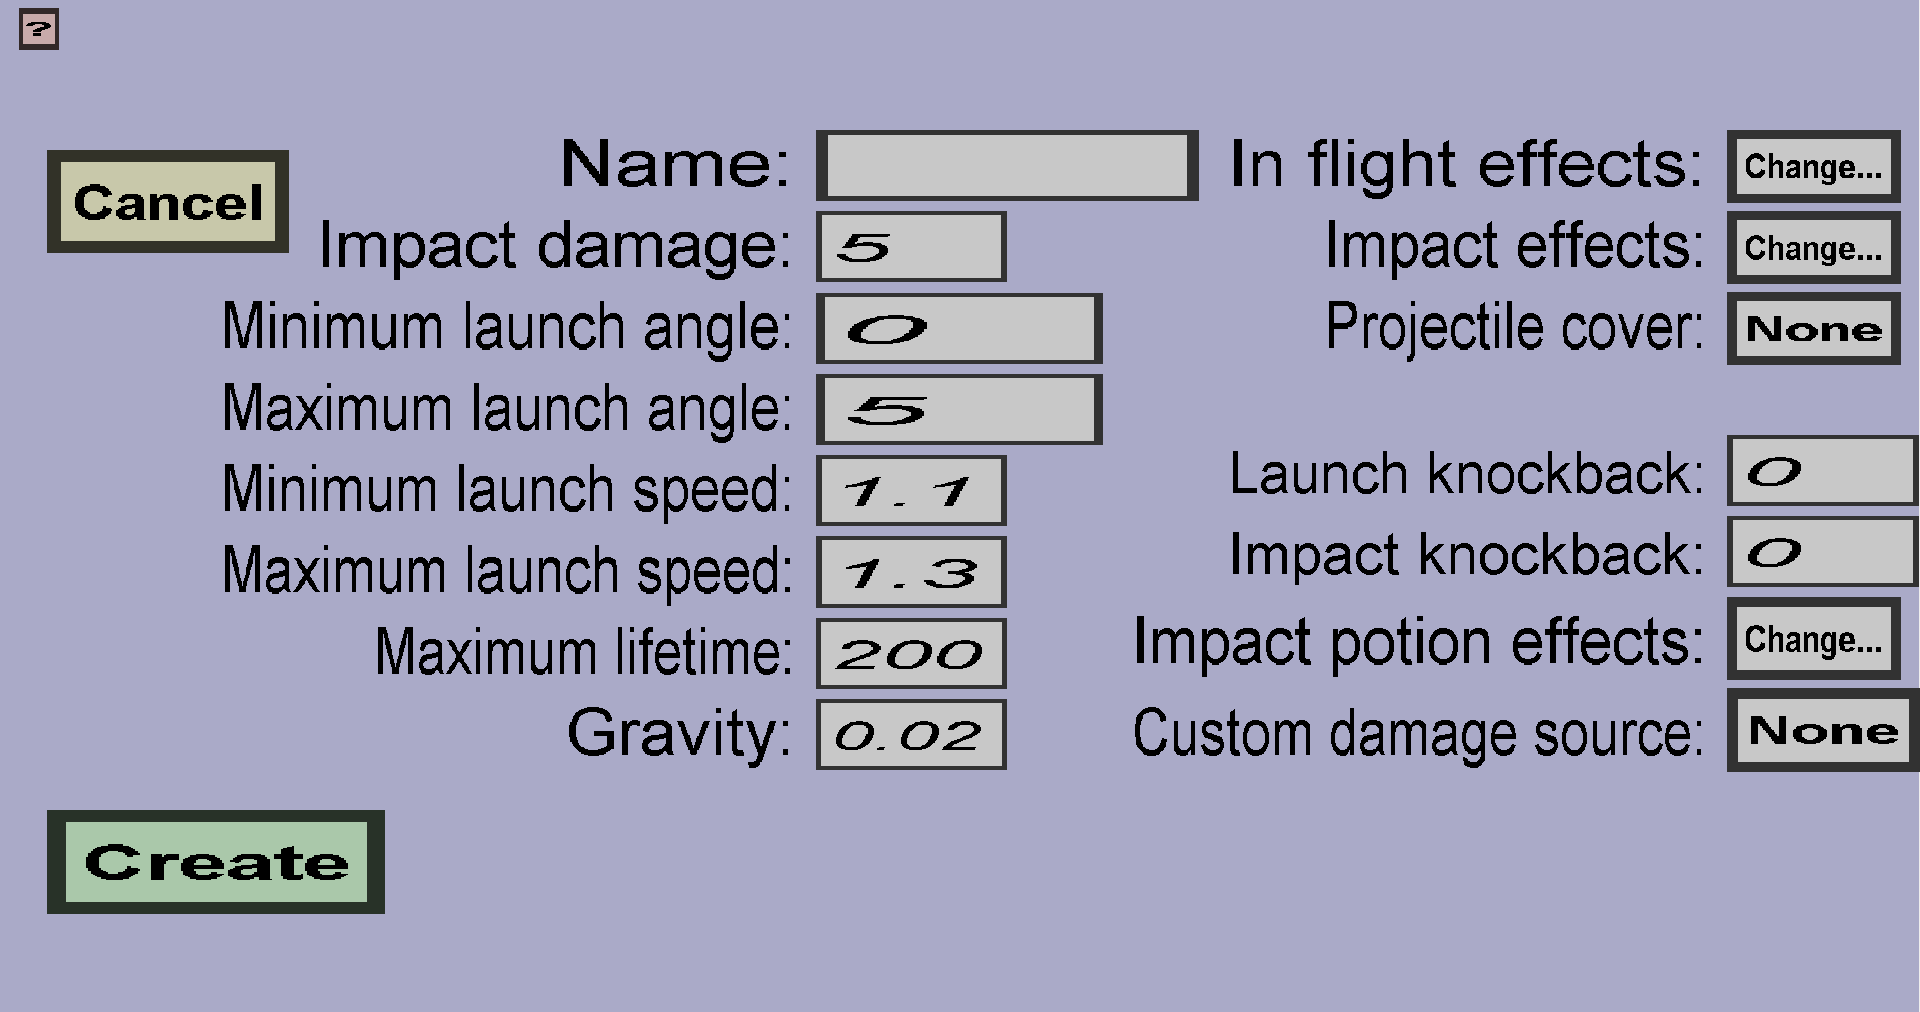
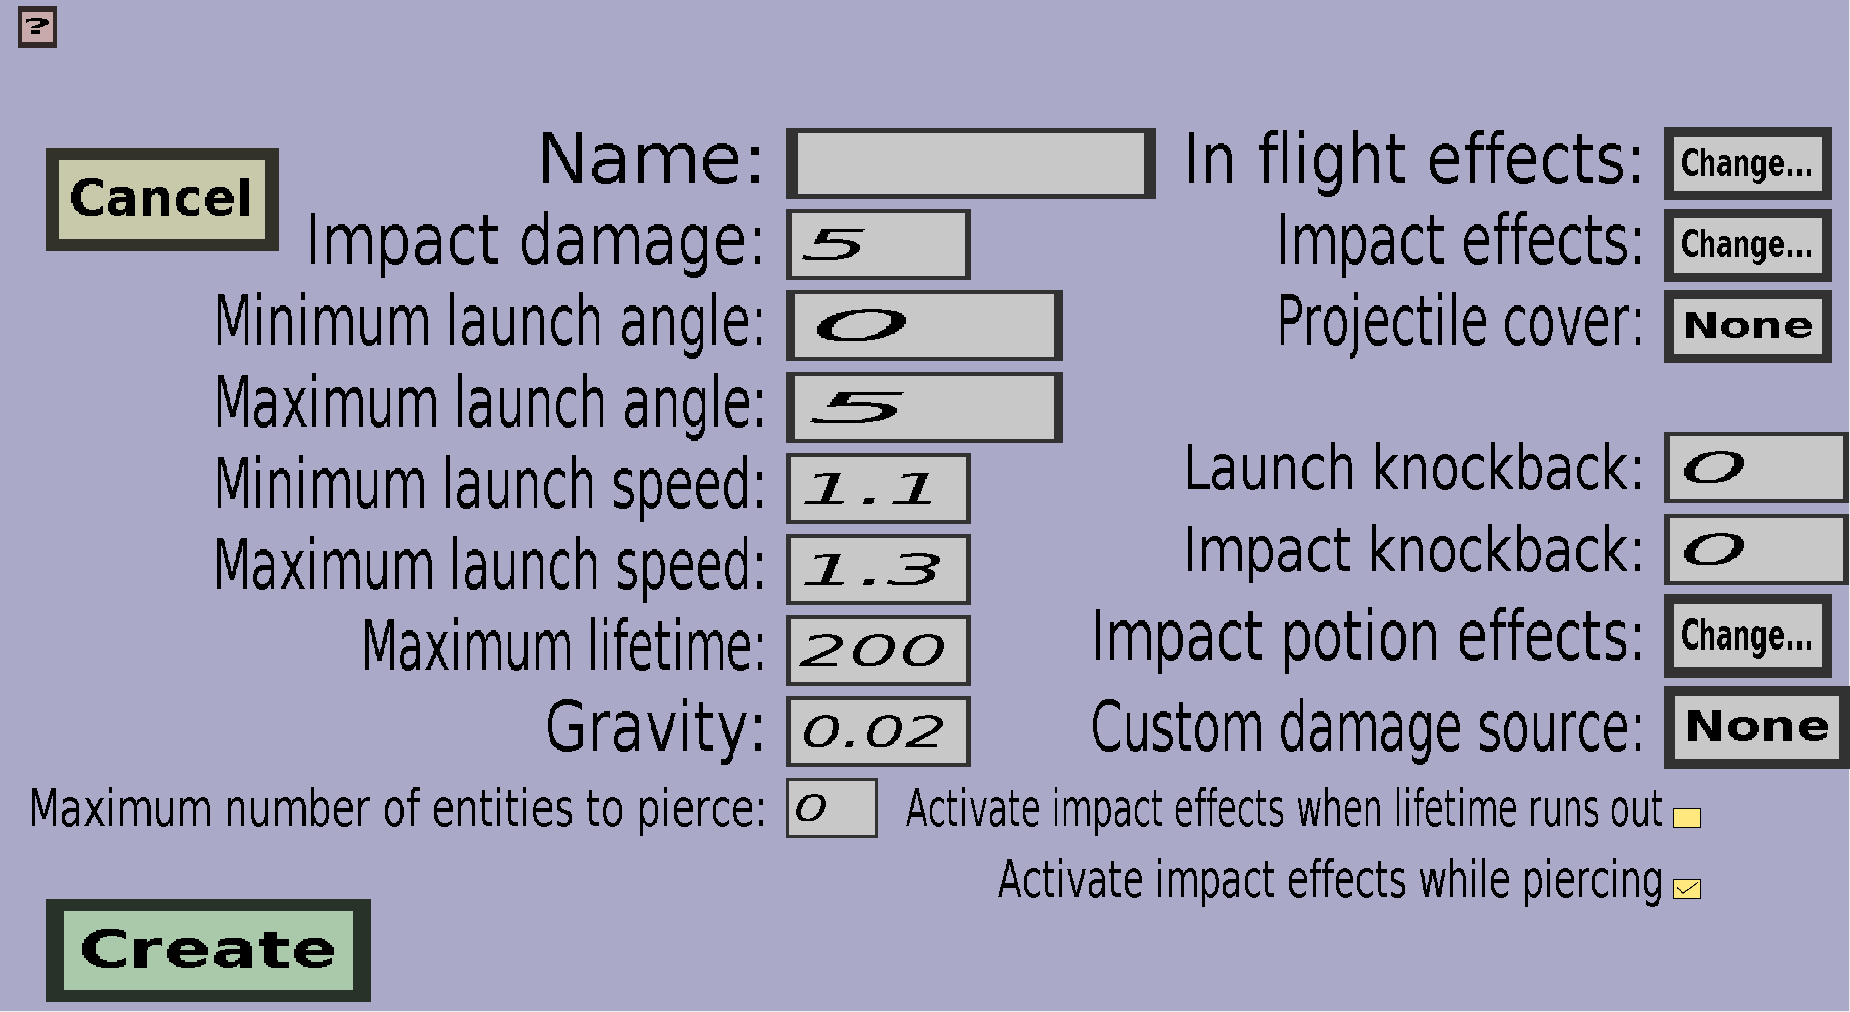
Document the piercing projectiles of KCI 13

diff --git a/custom items/editor documentation/edit menu/projectiles/edit.html b/custom items/editor documentation/edit menu/projectiles/edit.html
@@ -87,6 +87,15 @@
             I think the exact meaning of the value for the Gravity is too complex to understand for most
             people, so I will leave that out.
         </p>
+        <h3>Maximum number of entities to pierce</h3>
+        <p>
+            By default, custom projectiles will be destroyed whenever they hit an entity or block.
+            When you set this to something greater than 0, the projectile will pierce through 1 or more
+            entities instead. For instance, when <b>Maximum number of entities to pierce</b> is 2, the
+            projectile can pierce through 2 entities, and will only be destroyed upon hitting the third
+            entity (or after hitting 1 block). The two entities through which the projectile pierced will
+            take the same damage as the last entity.
+        </p>
         <h3>Effects</h3>
         <p>
             Custom projectiles can be configured to perform special effects like spawning particles, accellerating
@@ -142,6 +151,19 @@
         <p>
             Which type of <a href="../items/damage source/overview.html">custom damage</a> this projectile should deal.
             By default, this is <b>None</b>, which causes this projectile to deal normal damage.
+        </p>
+        <h3>Activate impact effects when lifetime runs out</h3>
+        <p>
+            By default, the impact effects will only be activated when the projectile hits a block or entity. But, when
+            you check this box, the impact effects will also be activated when the projectile dies because its lifetime
+            expired.
+        </p>
+        <h3>Activate impact effects while piercing</h3>
+        <p>
+            When <b>Maximum number of entities to pierce</b> is larger than 0, the projectile can pierce through entities.
+            By default, the impact effects will be activated each time an entity is pierced. If you uncheck this box,
+            the impact effects will only be activated when the projectile hits a block, or it hits an entity after
+            piercing the maximum number of entities.
         </p>
     </body>
 </html>
